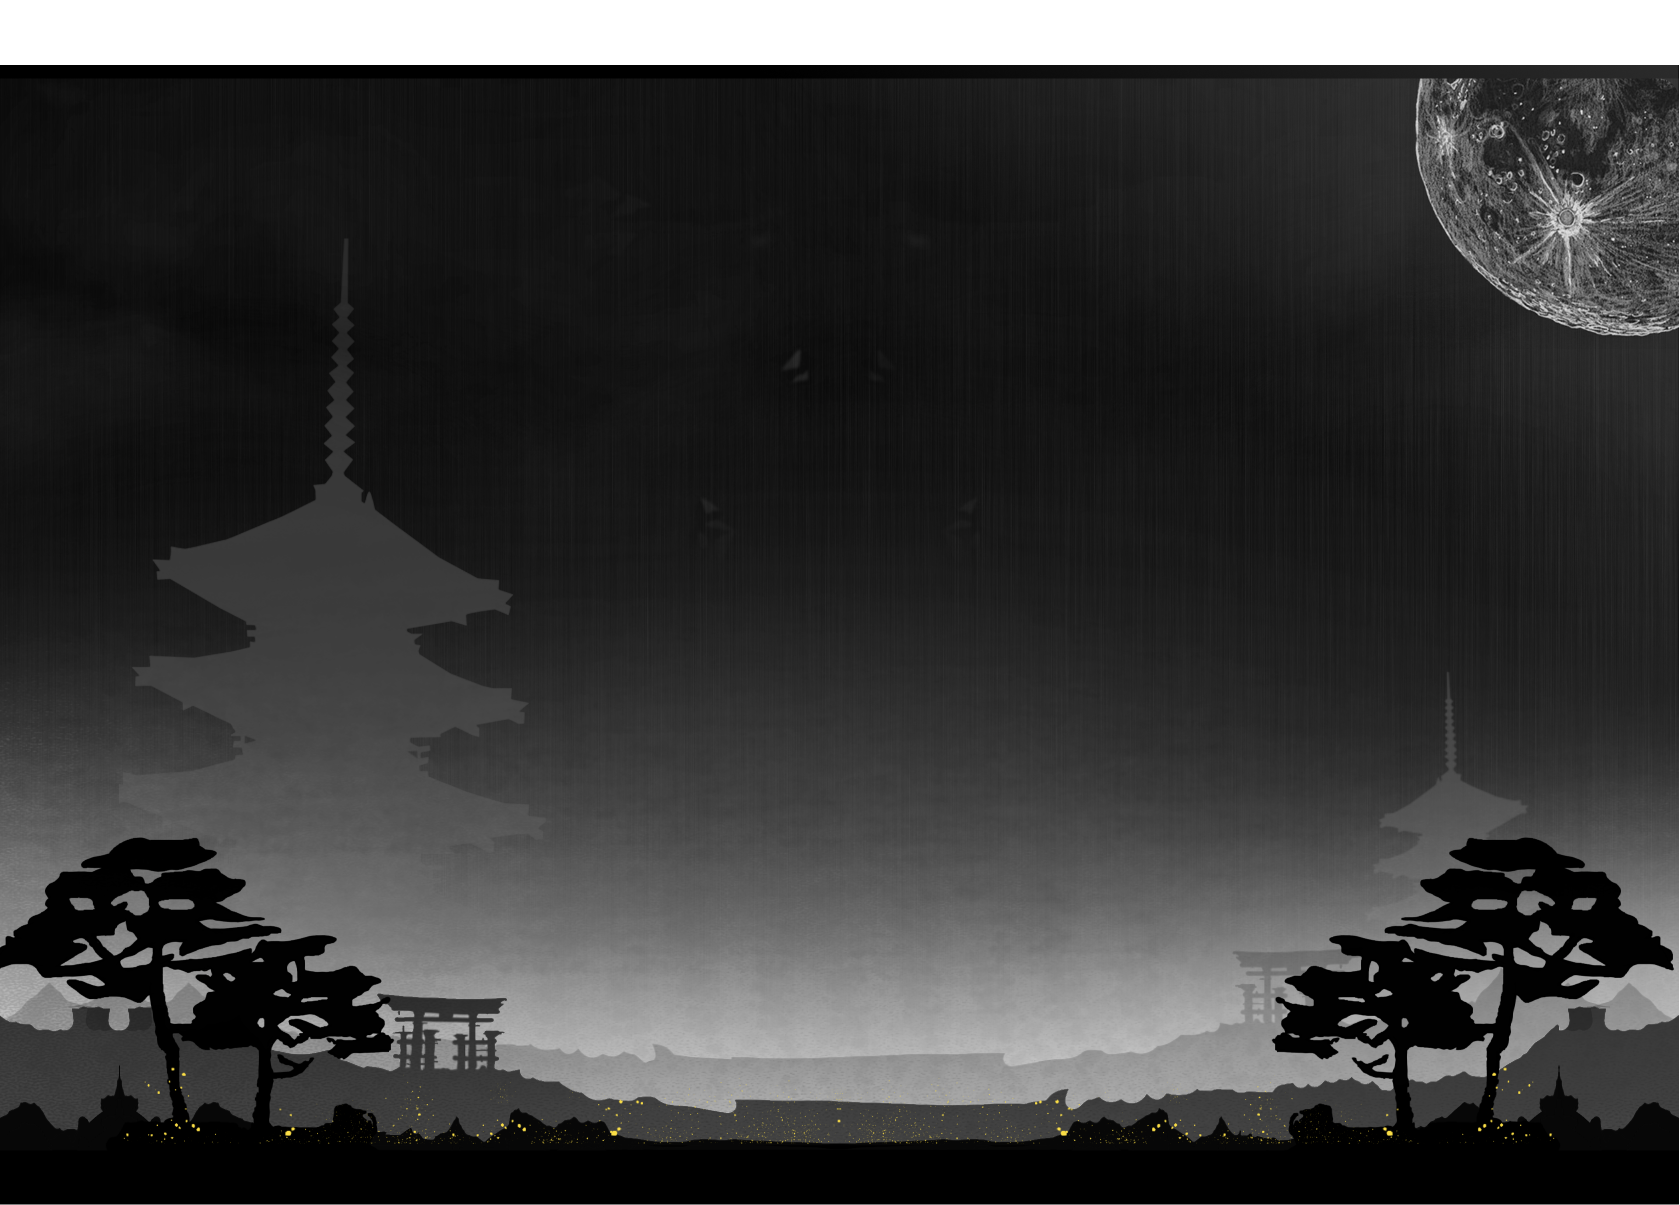
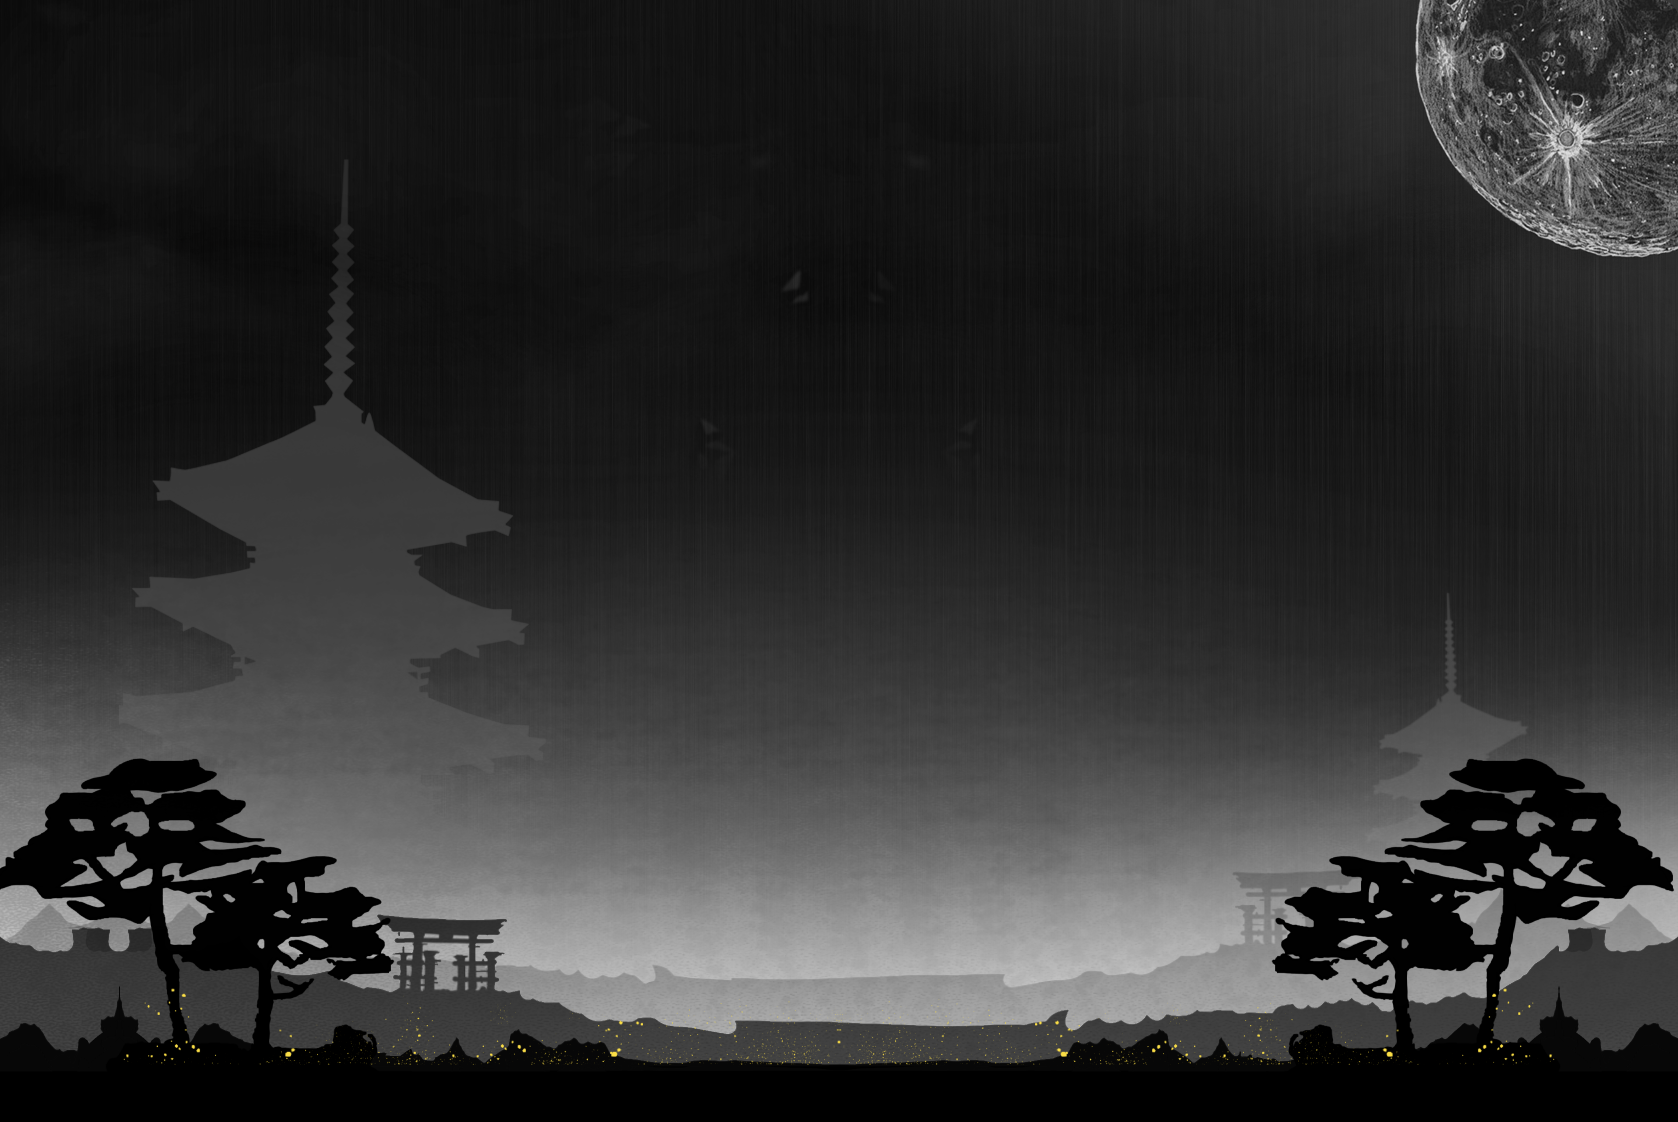
background fix

diff --git a/index.html b/index.html
@@ -70,17 +70,17 @@
                   src="./assets/img/bg_background_final.png" alt=""/>
 
             </div>
-            <div class="trees">
+            <!-- <div class="trees"> -->
                <!-- <img id="trees" src="./assets/img/trees.png" alt="trees" /> -->
-               <img id="trees_right"
+               <!-- <img id="trees_right"
                   src="https://res.cloudinary.com/desyuhf6j/image/upload/v1670064434/Vivacity/tree_right_1_frkjot.gif"
                   alt="trees" crossorigin="anonymous" />
                <img id="trees"
                   src="https://res.cloudinary.com/desyuhf6j/image/upload/v1670064434/Vivacity/trees_only_fuofsj.gif"
-                  alt="trees" crossorigin="anonymous" />
-            </div>
-            <img id="l-build" src="./assets/img/building left.png" alt="left-building" />
-            <img id="r-build" src="./assets/img/building right.png" alt="right-building" />
+                  alt="trees" crossorigin="anonymous" /> -->
+            <!-- </div> -->
+            <!-- <img id="l-build" src="./assets/img/building left.png" alt="left-building" />
+            <img id="r-build" src="./assets/img/building right.png" alt="right-building" /> -->
          </div>
          <div class="ninja">
             <img id="character_main" src="./assets/img/ninja.gif" alt="character" />

diff --git a/css/style.css b/css/style.css
@@ -315,6 +315,7 @@ body {
 .main .bgs {
   display: flex;
   flex-direction: column;
+  
   /* width: 2880px;
     height: 2048px; */
 }
@@ -322,19 +323,21 @@ body {
 .main .bgs img {
   width: 100%;
   height: 100%;
-  object-fit: cover;
+  object-fit: fill;
   position: fixed;
-  bottom: 0%;
+  /* bottom: -20%; */
   right: 0%;
 }
 
 .main #bg-1 {
   z-index: -5;
   position: fixed;
+
   bottom: 0%;
   opacity: 0.1;
   width: 100%;
   height: 100%;
+  /* margin: 100px; */
 }
 
 .main #bg-2 {
@@ -371,7 +374,7 @@ body {
 
 .main .trees img {
   width: 100%;
-  object-fit: cover;
+  object-fit: fill;
   position: fixed;
   bottom: 0%;
   /* right: 0%; */
@@ -1126,6 +1129,11 @@ section {
 }
 
 @media only screen and (min-device-width: 0px) and (max-device-width: 1200px) {
+
+  .main .bgs img {
+    object-fit: cover;
+  }
+
   #contact-us {}
 
   .contact-card {
